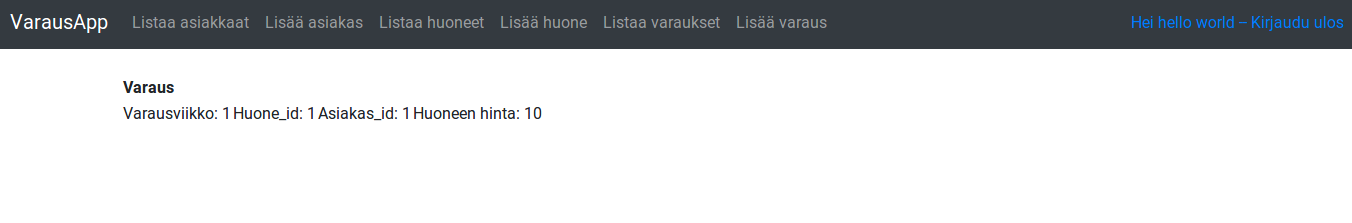
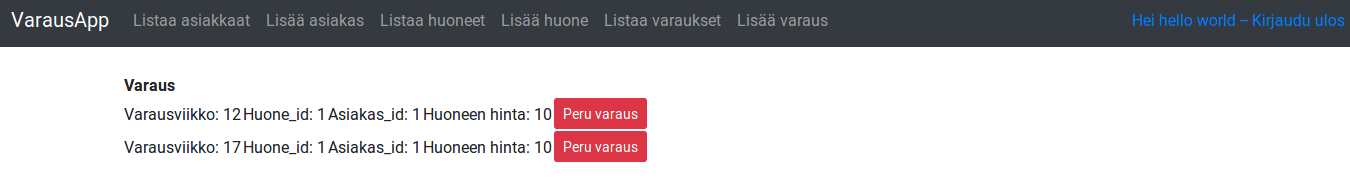
Lisätty varauksen peruminen -toiminnallisuus ja päivitetty dokumentaatioon tämän ohjeet

diff --git a/application/templates/varaukset/list.html b/application/templates/varaukset/list.html
@@ -12,6 +12,10 @@
       <td>Asiakas_id: {{ varaus.asiakas_id }}</td>
       <td>Huoneen hinta: {{ varaus.hinta }}</td>
       <td>
+        <form method="GET" action="{{ url_for('varaukset_poista', varaus_id=varaus.id) }}">
+          <input type="submit" class="btn btn-danger btn-sm" value="Peru varaus" />
+        </form>
+      </td>
     </tr>
     {% endfor %}
   </table>

diff --git a/application/auth/forms.py b/application/auth/forms.py
@@ -17,7 +17,7 @@ class LoginForm(FlaskForm):
 #nimi, username ja salasana minimi 2 ja maksimi 144 merkkia
 #Lomake uudelle kayttajalle
 class RekisteriForm(FlaskForm):
-    name = StringField("Name", [validators.Length(min=2, max=144)])
+    name = StringField("Kokonimi (etunimi sukunimi)", [validators.Length(min=2, max=144)])
     username = StringField("Username", [validators.Length(min=2, max=144)])
     password = StringField("Password", [validators.Length(min=2, max=144)])
 

diff --git a/application/varaukset/views.py b/application/varaukset/views.py
@@ -70,5 +70,16 @@ def varaukset_create():
     return redirect(url_for("varaukset_index"))
 
 
+#varauksen poistaminen, vaatii kirjautumisen
+@app.route("/varaukset/<varaus_id>/delete", methods=["GET"])
+@login_required 
+def varaukset_poista(varaus_id):
+
+    db.session.delete(Varaus.query.get(varaus_id))
+    db.session().commit()
+
+    return redirect(url_for("varaukset_index"))
+
+
 
 

diff --git a/README.md b/README.md
@@ -54,6 +54,7 @@ Sovellus tarjoaa uudelle työntekijälle mahdollisuuden rekisteröityä sovelluk
 - Listaa asiakkaat
 - Listaa huoneet
 - Listaa varaukset
+- Peru varaus 
 - CRUD-toiminnallisuudet asiakkaalle (lisäys, muokkaus, listaus ja poistaminen)
 - Kirjautuminen 
 - Rekisteröityminen (luo uudet USER-käyttäjän)
@@ -64,12 +65,12 @@ Sovellus tarjoaa uudelle työntekijälle mahdollisuuden rekisteröityä sovelluk
 ## Toteutumattomat ominaisuudet ja jatkokehitys
 
 - Asiakkaan varausten hakeminen nimellä.
+- Yhdellä varauksella voisi varata useita huoneita.
 - Varausten hakeminen tietylle aikavälille.
 - Listasten (asiakkaat, huoneet, varaukstet) sivutus.
 - Varausajan muuttaminen realistisemmaksi. Tällä hetkellä huone varataan aina viikoksi kerrallaan, todellisempaa olisi, jos huone varattaisiin haluttujen päivien ajaksi.
 - Lisävaruste-taulu, joka liittyisi varaus-tauluun. Asiakas voisi varata huoneelle haluamiansa lisävarusteita.
 - Admin-käyttäjälle lisää tominnallisuuksia, kuten muuta toisten käyttäjien oikeuksia ja poista käyttäjiä.
-- Varauksen peruminen.
 - Sovelluksen tuominen nykyaikaan -- nykyisessä muodossaan ei ole kovin näyttävä. Eli sivuston tyylittelyn/käytettävyyden parantaminen.
 - Sovelluksen muuttaminen siten, että sitä voi käyttää asiakkaat ja työntekijät/hotellinomistaja. Asiakkaan rekisteröityminen lisäisi asiakkaan automaattisesti asiakas-tauluun. Asiakkaalla vain oikeudet listata huoneet, tehdä varaus ja listata omat varauksensa.
 - Hinta-attribuuttien muuttaminen kokonaisluvuista realistisemmiksi esimerkiksi Numeric-tyyppisiksi.

diff --git a/documentation/kaytto_ohje.md b/documentation/kaytto_ohje.md
@@ -13,6 +13,7 @@ Sovellusta voi käyttää nettiosoitteessa [https://tsoha-varaussovellus.herokua
 - Listaa huoneet
 - Lisää varaus
 - Listaa varaukset
+- Peru varaus
 - Uloskirjautuminen
 
 
@@ -106,6 +107,11 @@ Asiakkaan lisääminen vaatii kirjautumisen ja aloitussivun yläreunan "Lisää 
 
 - Aloitussivun "Listaa varaukset"-linkkiä painamalla pääsee näkymään, jossa näytetään lisätyt varaukset.
 - Voit tarkastaa tästä, onko haluamasi huone vapaana haluttuun aikaan.
+
+## Varauksen peruminen
+![alt text](https://github.com/toasterkone/HotellihuoneidenVarausjarjestelma/blob/master/documentation/kayttotarkoituskuvia/Listaa_varaukset.png "Varausten listaaminen")
+
+- Aloitussivun "Listaa varaukset"-linkkiä painamalla pääseen näkymään, jossa näytetään lisätyt varaukset. Tässä näkymässä voi perua halutun varauksen painamalla kyseisen varauksen rivin kohdalla olevaa punaista nappia, jossa lukee "peru varaus". Tämä toiminto vaatii kirjautumisen.
 
 ## Uloskirjautuminen
 

diff --git a/documentation/user_stories.md b/documentation/user_stories.md
@@ -62,6 +62,13 @@ SELECT * FROM huone;
 SELECT * FROM varaus;
 ```
 
+8. Haluan poistaa asiakkaan peruman varauksen
+```
+DELETE FROM varaus
+WHERE id = 123;
+```
+jossa id on peruttavan varauksen id.
+
 ## Hotellinomistaja (ADMIN-oikeudet)
 - Pystyn tekemään kaikki yllä mainitut tehtävät.
 
